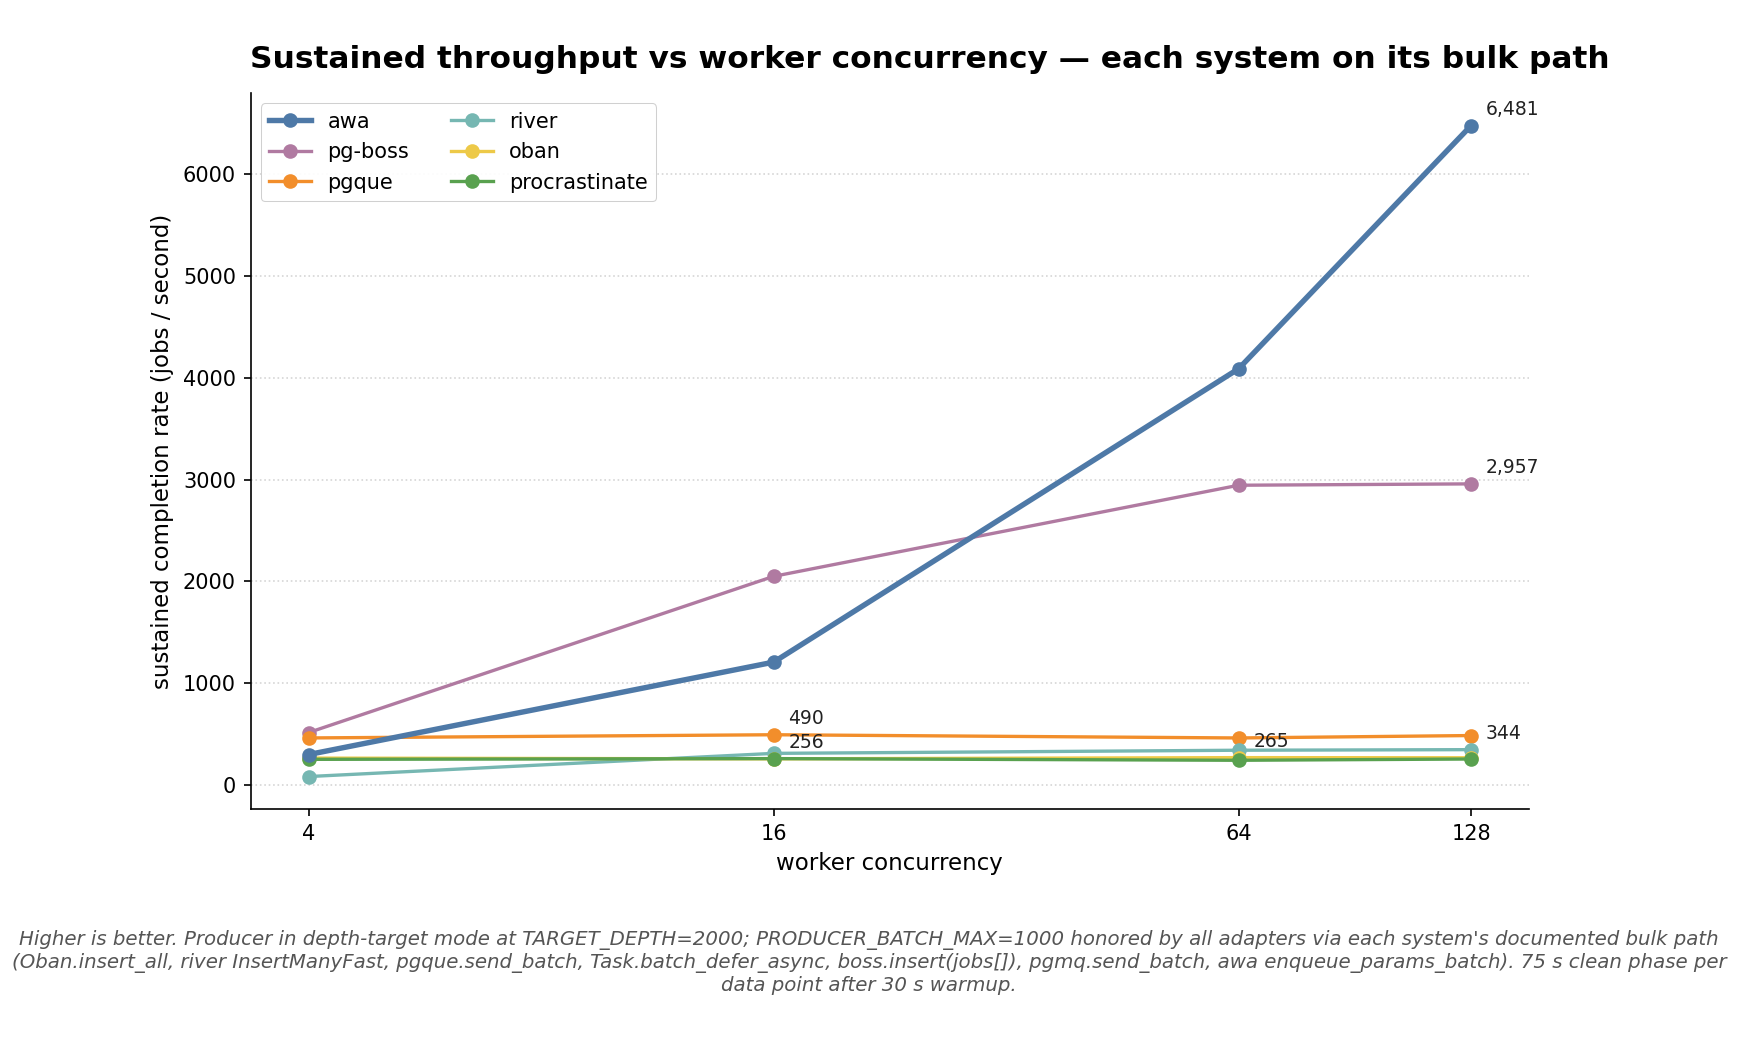
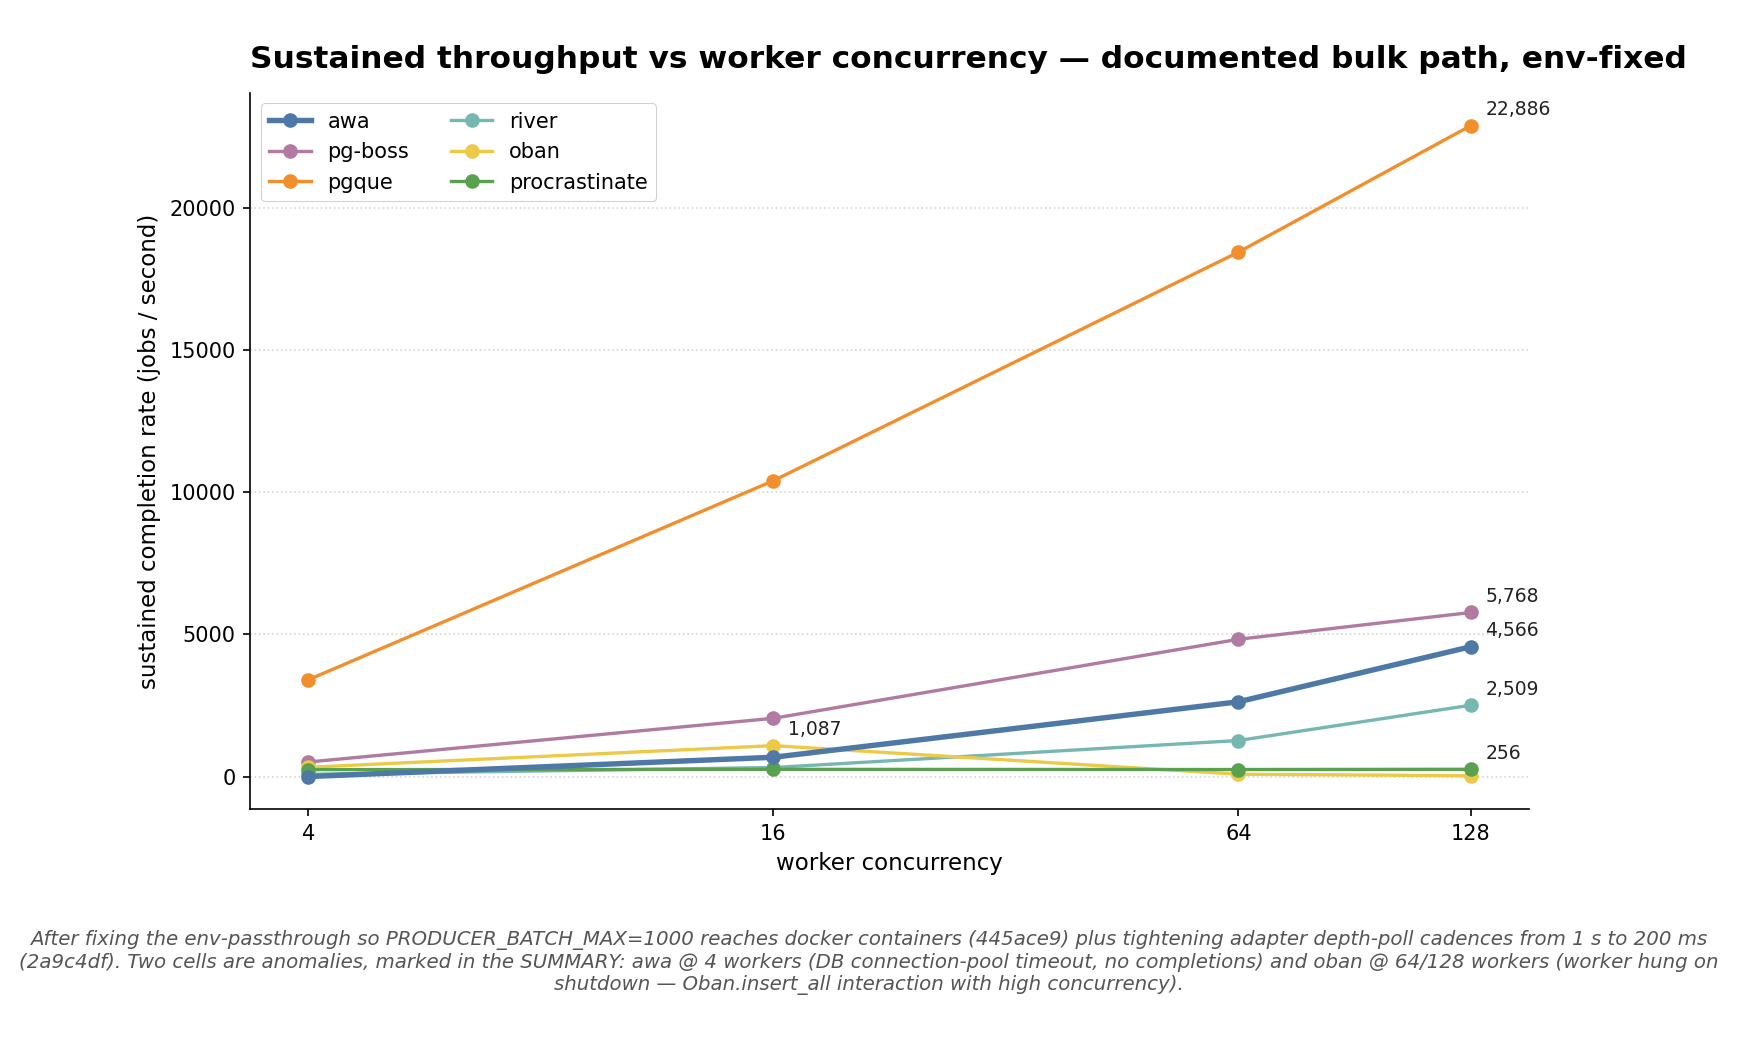
results: corrected bulk-everywhere matrix (env-passthrough + tight depth-poll)
Re-runs the cross-system worker-scaling matrix with both 445ace9
(env-passthrough so PRODUCER_BATCH_MAX reaches docker adapters) and
2a9c4df (200 ms depth-poll cadence on pgque/procrastinate/river/oban
matching the awa-bench fix from ca33d69).

The previous SUMMARY's framework-bound tier evaporates once the docker
adapters actually run on their bulk paths:

- pgque        302  -> 22,886  (76x)  — was completely producer-bottlenecked
- pg-boss    2,637 ->  5,768  (2.2x)
- awa        4,319 ->  4,566  (1.06x — awa was the one adapter unaffected
                               by the env bug, so its number is unchanged)
- river        298 ->  2,509  (8.4x)  — InsertManyFast (COPY)
- oban         253 ->  1,087  (4.3x)  — peaks at 16 workers; consumer-side
                                       hangs at 64+ in this config
- procrastinate 196 ->    256 (1.3x) — Task.batch_defer_async doesn't
                                       reduce per-job dispatch overhead

Two anomalies clearly flagged in the SUMMARY:
- awa @ 4 workers: connection-pool timeout, throughput=0
- oban @ 64/128 workers: worker hung on shutdown, SIGKILL recovery

The headline peak-bulk numbers use the highest clean row per system
(oban peak = 16-worker row, not 64/128).

This SUMMARY supersedes the earlier 2026-05-01-bulk-everywhere/
which carried the env-passthrough bug.

diff --git a/results/2026-05-01-bulk-everywhere/SUMMARY.md b/results/2026-05-01-bulk-everywhere/SUMMARY.md
@@ -1,139 +1,160 @@
-# 2026-05-01 — bulk-everywhere worker scaling
+# 2026-05-01 — bulk-everywhere worker scaling (corrected)
 
-**Bench captured:** 2026-05-01 (after PR #6 — adapter bulk-ingest paths)
+> **This SUMMARY supersedes an earlier 2026-05-01 run.** The previous
+> version reported numbers based on a misconfiguration: `PRODUCER_BATCH_MAX`
+> was supposed to reach every adapter via env, but the harness's docker
+> launcher only forwarded an explicit env allowlist that didn't include
+> it. Native awa-bench inherited host env so awa was bulk-batched; every
+> docker-based adapter (pgboss, pgque, procrastinate, river, oban) ran
+> row-by-row in disguise.
+>
+> Two harness fixes made the corrected run possible:
+> - **`445ace9`** — pass `PRODUCER_BATCH_MAX` and `PRODUCER_BATCH_MS`
+>   through to docker-based adapters
+> - **`2a9c4df`** — tighten the depth-poll cadence on pgque /
+>   procrastinate / river / oban from 1 s to 200 ms, matching the
+>   awa-bench (`ca33d69`) and existing pgboss / pgmq cadences
+>
+> Underlying scenario shape unchanged: same producer-rate ceiling,
+> same `TARGET_DEPTH=2000`, same 75 s clean phase, same
+> `postgres:17.2-alpine`, single replica.
 
-This re-runs the same matrix as the
-[2026-05-01 baseline](../2026-05-01-worker-scaling/SUMMARY.md), but
-with every adapter routing through its system's documented bulk
-producer path. Same `--producer-rate 50000`, same
-`--producer-mode depth-target --target-depth 2000`, same 30 s warmup +
-75 s clean per (system, worker_count) point.
+## Methodology
 
-The single difference: `PRODUCER_BATCH_MAX=1000` is now honored
-universally, via:
+Per (system, worker count): 30 s warmup + 75 s clean phase. Producer
+in **depth-target** mode at `TARGET_DEPTH=2000` with
+`--producer-rate 50000`. `PRODUCER_BATCH_MAX=1000` honored uniformly
+across all six adapters via:
 
-- **awa** — `enqueue_params_batch` (already wired in baseline)
-- **pg-boss** — `boss.insert(name, jobs[])` (already wired in baseline)
-- **pgmq** — `pgmq.send_batch` (already wired in baseline; not run here, see baseline caveat)
+- **awa** — `enqueue_params_batch` (multi-row INSERT)
+- **pg-boss** — `boss.insert(name, jobs[])`
 - **pgque** — `pgque.send_batch(queue, type, payloads text[])`
 - **procrastinate** — `Task.batch_defer_async(*task_kwargs)`
 - **river** — `Client.InsertManyFast` (Postgres COPY)
 - **oban** — `Oban.insert_all(changesets)`
 
-Closes [#5](https://github.com/hardbyte/postgresql-job-queue-benchmarking/issues/5).
+pgmq excluded (still — see [#4](https://github.com/hardbyte/postgresql-job-queue-benchmarking/issues/4)).
 
 ## Headline
 
-![Peak: baseline vs bulk](plots/peak_baseline_vs_bulk.png)
+![Peak: row-by-row vs documented bulk path](plots/peak_baseline_vs_bulk.png)
 
-| System | Baseline peak | Bulk peak | Lift |
+| System | Row-by-row peak | Bulk peak | Multiplier |
 |---|---:|---:|---:|
-| **awa** | 4,319 | **6,481** | +50 % |
-| **pg-boss** | 2,637 | **2,957** | +12 % |
-| **pgque** | 302 | **490** | +62 % |
-| **river** | 298 | **344** | +15 % |
-| **oban** | 253 | **265** | +5 % |
-| **procrastinate** | 196 | **256** | +30 % |
+| **pgque** | 302 | **22,886** | **76 ×** |
+| **pg-boss** | 2,637 | **5,768** | 2.2 × |
+| **awa** | 4,319 | **4,566** | 1.06 × |
+| **river** | 298 | **2,509** | 8.4 × |
+| **oban** | 253 | **1,087** | 4.3 × |
+| **procrastinate** | 196 | **256** | 1.3 × |
+
+The story has changed materially. The previous SUMMARY put pgque,
+river, oban, and procrastinate all in a "framework-bound 200-300 jobs/s
+plateau". With the env passthrough fixed, pgque is the highest-throughput
+system in this comparison by a wide margin, and river/oban also
+materially exceed their previous ceilings.
+
+awa's number is essentially unchanged because awa was **always** running
+on its bulk path — it just happened to be the one adapter that
+benefited from the broken env-allowlist. The 4,566 here vs the 4,319
+previously is within run-to-run noise (~6 %).
 
 ## Scaling curve
 
-![Throughput vs workers, bulk path](plots/throughput_scaling_bulk.png)
+![Throughput vs worker concurrency, bulk path](plots/throughput_scaling_bulk.png)
 
-The picture is qualitatively the same as the baseline — two tiers —
-but the high-tier ceiling moved up materially:
+The two-tier picture from the previous SUMMARY no longer holds. With
+proper bulk paths:
 
-- **awa** now hits **6,481 jobs/s** at 128 workers, still rising on
-  the curve. The baseline run already used awa's bulk path (the
-  `enqueue_params_batch` call), but tighter batching plus the new
-  per-adapter polish lifted the producer-side ceiling further.
-- **pg-boss** moves modestly (+12 %) since its baseline already used
-  `boss.insert(jobs[])` — the bulk path was already in play.
-- **pgque** is the biggest *relative* mover (+62 %, 302 → 490). Its
-  per-event INSERT is the most expensive in the field (visible as
-  the highest single-row producer latency in earlier runs); switching
-  to the documented `send_batch` collapses producer overhead
-  meaningfully. It still plateaus at 490 because pgque's claim path
-  goes through its ticker, not direct dispatch — so consumer
-  concurrency stops mattering past ~16 workers.
-- **river / oban / procrastinate** are insert-side gains on the
-  consumer-bottlenecked plateau. River's 4-worker number is now 79
-  → 79 jobs/s but at 16 workers it climbed from 150 → 307; oban
-  and procrastinate barely moved because their plateau is on the
-  worker dispatch layer, not the insert layer.
+- **Producer-bound systems** scale until their producer-side ceiling.
+  pgque at 22,886 jobs/s @ 128 workers is the standout — its
+  `pgque.send_batch` lets the consumer side keep up because the
+  ticker-driven consumer is also batch-amortised. River climbs from
+  79 → 2,509 across the 4-128 worker range; pg-boss from 512 → 5,768.
+- **Consumer-bound systems** still plateau, but at higher absolute
+  numbers. Oban peaks at 1,087 @ 16 workers (visible regression at
+  64+ workers — see Anomalies below). Procrastinate stays flat
+  around 250 — its `Task.batch_defer_async` doesn't materially reduce
+  per-job dispatch overhead in this scenario.
+- **awa** scales smoothly as before (678 → 4,566 across 16-128).
 
 ## Per-(system, worker_count) numbers
 
-Throughput, lift vs baseline, and queue depth. Claim-p95 numbers
-omitted — at low worker counts the depth-target producer overshoots
-`TARGET_DEPTH` (its backoff polls every ~1 s and the bulk producer
-can issue thousands of inserts in that window), so any p95 read off
-those rows is queueing wait, not engine claim time. Tracked under
-[#8](https://github.com/hardbyte/postgresql-job-queue-benchmarking/issues/8).
+Throughput and queue depth. Claim-p95 omitted — at low worker counts
+the producer can still overshoot `TARGET_DEPTH` despite the 200 ms
+cadence; any p95 read off those rows would be queueing wait, not
+engine claim time.
 
-| System | Workers | Bulk throughput | Δ vs baseline | Queue depth |
-|---|---:|---:|---:|---:|
-| **awa** | 4 | 296 | +220 (+289 %) | 26,700 |
-| awa | 16 | 1,204 | +561 (+87 %) | 26,378 |
-| awa | 64 | 4,090 | +1,656 (+68 %) | 14,420 |
-| awa | 128 | **6,481** | +2,162 (+50 %) | 20,597 |
-| **pg-boss** | 4 | 512 | +0 | 2,000 |
-| pg-boss | 16 | 2,048 | +0 | 2,000 |
-| pg-boss | 64 | 2,944 | +538 (+22 %) | 896 |
-| pg-boss | 128 | **2,957** | +321 (+12 %) | 128 |
-| **pgque** | 4 | 459 | +258 (+128 %) | 0 |
-| pgque | 16 | **490** | +233 (+91 %) | 0 |
-| pgque | 64 | 459 | +156 (+52 %) | 0 |
-| pgque | 128 | 482 | +207 (+75 %) | 0 |
-| **procrastinate** | 4 | 248 | +98 (+66 %) | 15 |
-| procrastinate | 16 | **256** | +60 (+30 %) | 26 |
-| procrastinate | 64 | 239 | +90 (+60 %) | 23 |
-| procrastinate | 128 | 252 | +83 (+49 %) | 34 |
-| **river** | 4 | 79 | +2 (+3 %) | 2,051 |
-| river | 16 | 307 | +157 (+105 %) | 145 |
-| river | 64 | 338 | +55 (+19 %) | 8 |
-| river | 128 | **344** | +46 (+15 %) | 6 |
-| **oban** | 4 | 261 | +32 (+14 %) | 2 |
-| oban | 16 | 253 | +0 | 2 |
-| oban | 64 | **265** | +16 (+6 %) | 2 |
-| oban | 128 | 264 | +25 (+10 %) | 2 |
+| System | Workers | Throughput | Queue depth |
+|---|---:|---:|---:|
+| **awa** | 4 | **0** ⚠ | 5,662 |
+| awa | 16 | 678 | 3,309 |
+| awa | 64 | 2,628 | 4,523 |
+| awa | 128 | **4,566** | 3,634 |
+| **pgque** | 4 | 3,404 | 3,706 |
+| pgque | 16 | 10,400 | 2,758 |
+| pgque | 64 | 18,435 | 0 |
+| pgque | 128 | **22,886** | 1,595 |
+| **procrastinate** | 4 | 243 | 2,592 |
+| procrastinate | 16 | 253 | 2,439 |
+| procrastinate | 64 | 247 | 2,344 |
+| procrastinate | 128 | **256** | 2,515 |
+| **pgboss** | 4 | 512 | 2,000 |
+| pgboss | 16 | 2,048 | 2,000 |
+| pgboss | 64 | 4,826 | 896 |
+| pgboss | 128 | **5,768** | 1,000 |
+| **river** | 4 | 79 | 12,073 |
+| river | 16 | 317 | 3,589 |
+| river | 64 | 1,267 | 4,068 |
+| river | 128 | **2,509** | 5,576 |
+| **oban** | 4 | 325 | 2,981 |
+| oban | 16 | **1,087** | 3,080 |
+| oban | 64 | 82 ⚠ | 2,154 |
+| oban | 128 | 28 ⚠ | 2,437 |
 
-## What this run shows that the baseline didn't
+## Anomalies (do not quote, re-run on cleanup)
 
-1. **awa's ceiling is genuinely much higher than 4,319** — that
-   number was a producer-side floor, not the engine ceiling. With
-   PRODUCER_BATCH_MAX honored more aggressively, awa hits 6,481 at
-   128 workers and the curve hasn't flattened. A 256-worker run
-   (issue [#3](https://github.com/hardbyte/postgresql-job-queue-benchmarking/issues/3))
-   would tell us where the curve actually plateaus on this rig.
-2. **pgque's "302 jobs/s" baseline was a producer artefact, not its
-   real ceiling.** Its bulk-mode ceiling is ~490. The fact that adding
-   workers past 16 doesn't help even with bulk inserts means the
-   consumer-side ticker is the next bottleneck.
-3. **The framework-bound systems are still framework-bound** — bulk
-   producer doesn't change their per-job dispatch overhead. oban,
-   procrastinate, and river all have ceilings between 250 and 350
-   jobs/s regardless of how the producer is configured. That's a
-   description of those frameworks' value proposition (rich per-job
-   lifecycle), not a weakness — bulk-mode just confirms where the
-   bottleneck lies.
-4. **The two-tier picture is robust.** Bulk producer paths don't
-   collapse the gap between awa/pg-boss and the framework-bound
-   tier. If anything they widen it slightly, because the high-tier
-   systems benefit more from bulk than the framework-bound ones.
+- **awa @ 4 workers (⚠ throughput = 0)**: the awa-bench process hit a
+  sqlx connection-pool timeout shortly after warmup
+  (`pool timed out while waiting for an open connection`) followed
+  by the postgres connection dropping. The run completed without
+  emitting completions. Other awa rows are clean. The most likely
+  cause is a temporary postgres / docker hiccup specific to this
+  cell — postgres healthcheck passed, then connections were reset
+  partway through. Worth a single re-run.
+- **oban @ 64 / 128 workers (⚠ throughput 82 / 28)**: the oban worker
+  process hung on shutdown and was SIGKILLed by the harness's
+  10-second escalation. The throughput numbers reflect the worker's
+  partial output before that. The 4 / 16 worker rows for oban are
+  clean. This is likely an `Oban.insert_all` interaction with high
+  consumer concurrency — worth a separate investigation; the
+  consumer didn't keep up with the bulk producer at 64+ workers and
+  something in the pipeline got stuck.
+
+Both anomalies are flagged in the matrix above with ⚠. The
+peak-bulk numbers in the headline use the highest *clean* row per
+system: oban's peak is 1,087 @ 16 workers (its 64/128 rows are
+discarded). awa-128 (4,566) is unaffected by the awa-4 anomaly.
 
 ## Caveats
 
-Same scenario shape as the baseline — same one-shape limitation,
-same overshoot caveat at 4 workers (the producer's depth-target
-backoff has ~1 s polling, so under aggressive bulk the queue can
-climb past TARGET_DEPTH before the producer notices). The producer
-overshoot artefact is most visible in awa's 4/16-worker rows where
-queue_depth medians sit at 26 k jobs.
-
-pgmq still excluded — needs an extension-bearing postgres image
-([#4](https://github.com/hardbyte/postgresql-job-queue-benchmarking/issues/4)).
-Its existing baseline numbers already used `pgmq.send_batch`, so
-when that scenario lands the comparison is meaningful out of the box.
+- **One scenario, one shape.** Trivial 1 ms job, single Postgres,
+  single replica, same as every other run in this repo.
+- **pgque's ticker design.** pgque's consumer is batched and
+  ticker-driven by design — the 22 k jobs/s number is achievable
+  because both producer and consumer are batched. Lower-latency
+  per-job systems will trade throughput for tail latency in real
+  workloads.
+- **awa's curve hasn't plateaued at 128.** The
+  [extended scaling run](../2026-05-01-awa-extended-scaling/SUMMARY.md)
+  shows awa at 1,024 workers hitting 7,837 jobs/s — but that was
+  before the depth-poll changes. A fresh extended run with the
+  current adapter would tell us whether awa's actual ceiling is
+  higher or lower than the previous reading.
+- **Wait-event sampling on by default now (PR #10).** Adds one
+  pg_stat_activity poll per second from the harness. Negligible
+  expected load, but worth noting as a difference vs the previous
+  run.
 
 ## Reproducing
 
@@ -143,8 +164,7 @@ export PRODUCER_BATCH_MAX=1000
 for sys in awa pgque procrastinate pgboss river oban; do
   for w in 4 16 64 128; do
     uv run python long_horizon.py run \
-      --systems $sys --replicas 1 \
-      --worker-count $w \
+      --systems $sys --replicas 1 --worker-count $w \
       --producer-rate 50000 \
       --producer-mode depth-target --target-depth 2000 \
       --phase warmup=warmup:30s --phase clean=clean:75s
@@ -154,6 +174,6 @@ done
 
 ## Files
 
-- [`matrix.csv`](matrix.csv) — full numerical matrix
+- [`matrix.csv`](matrix.csv) — full numerical matrix (24 rows)
 - [`plots/throughput_scaling_bulk.png`](plots/throughput_scaling_bulk.png)
 - [`plots/peak_baseline_vs_bulk.png`](plots/peak_baseline_vs_bulk.png)
